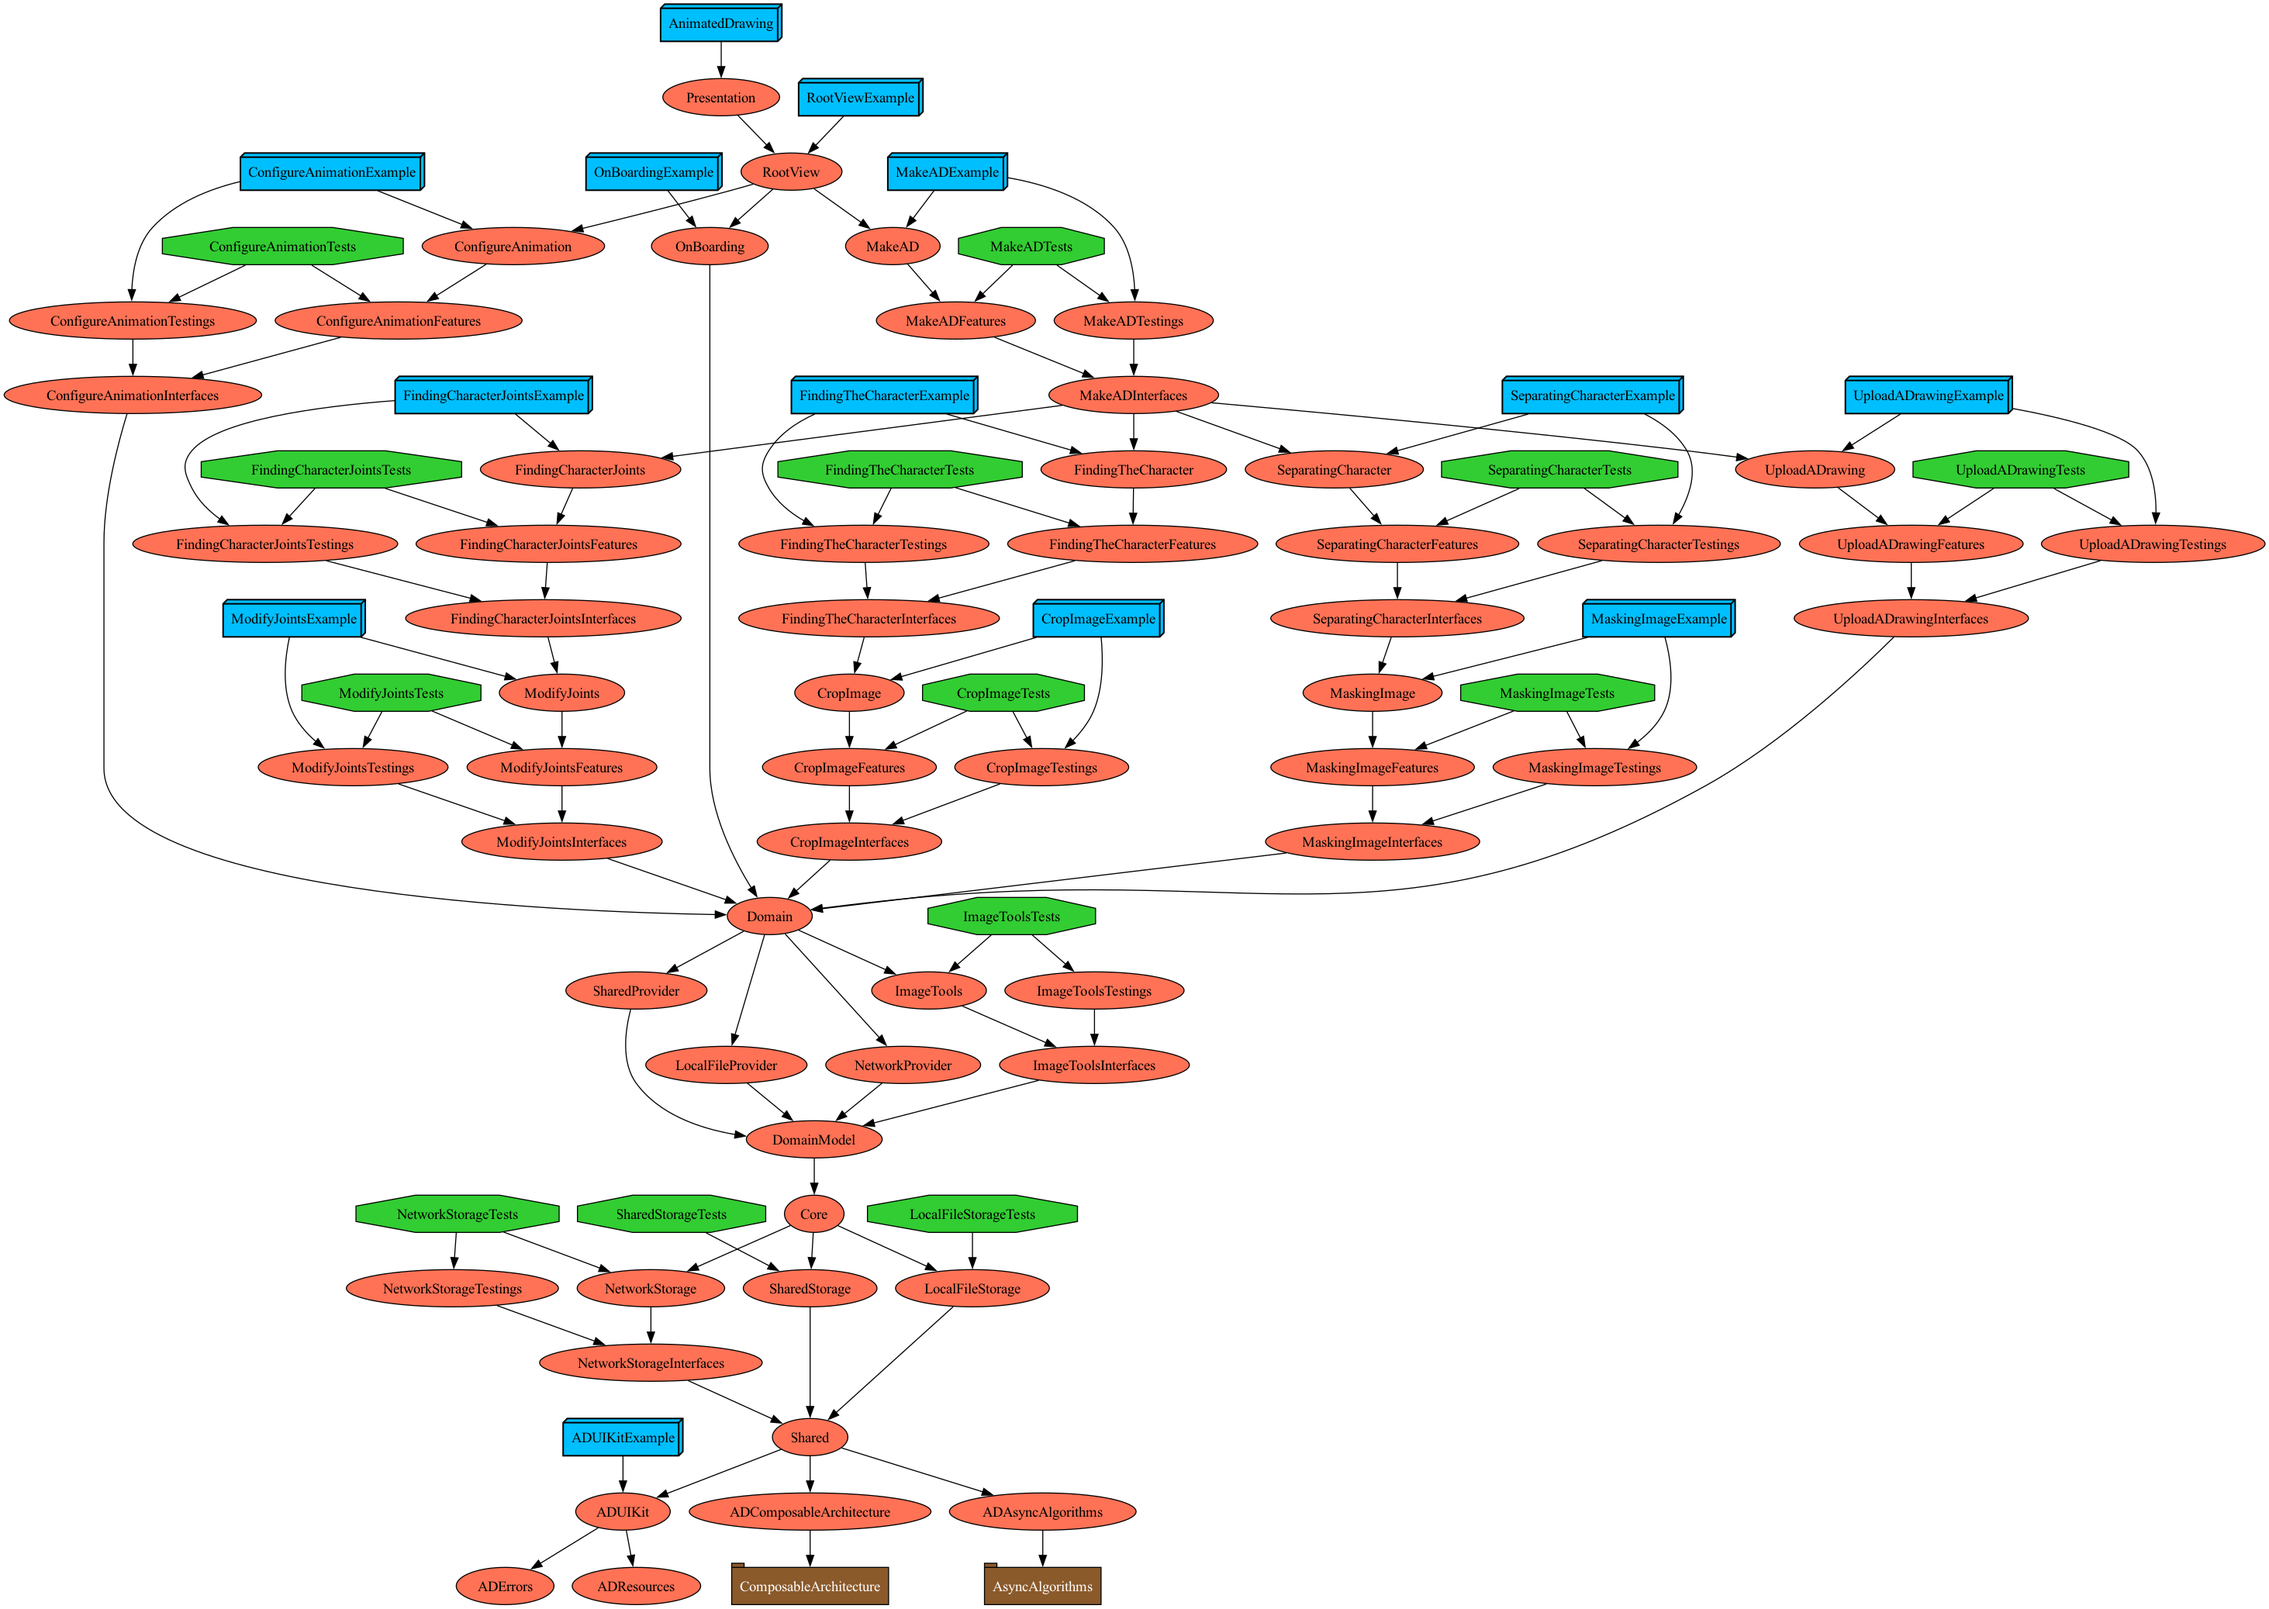
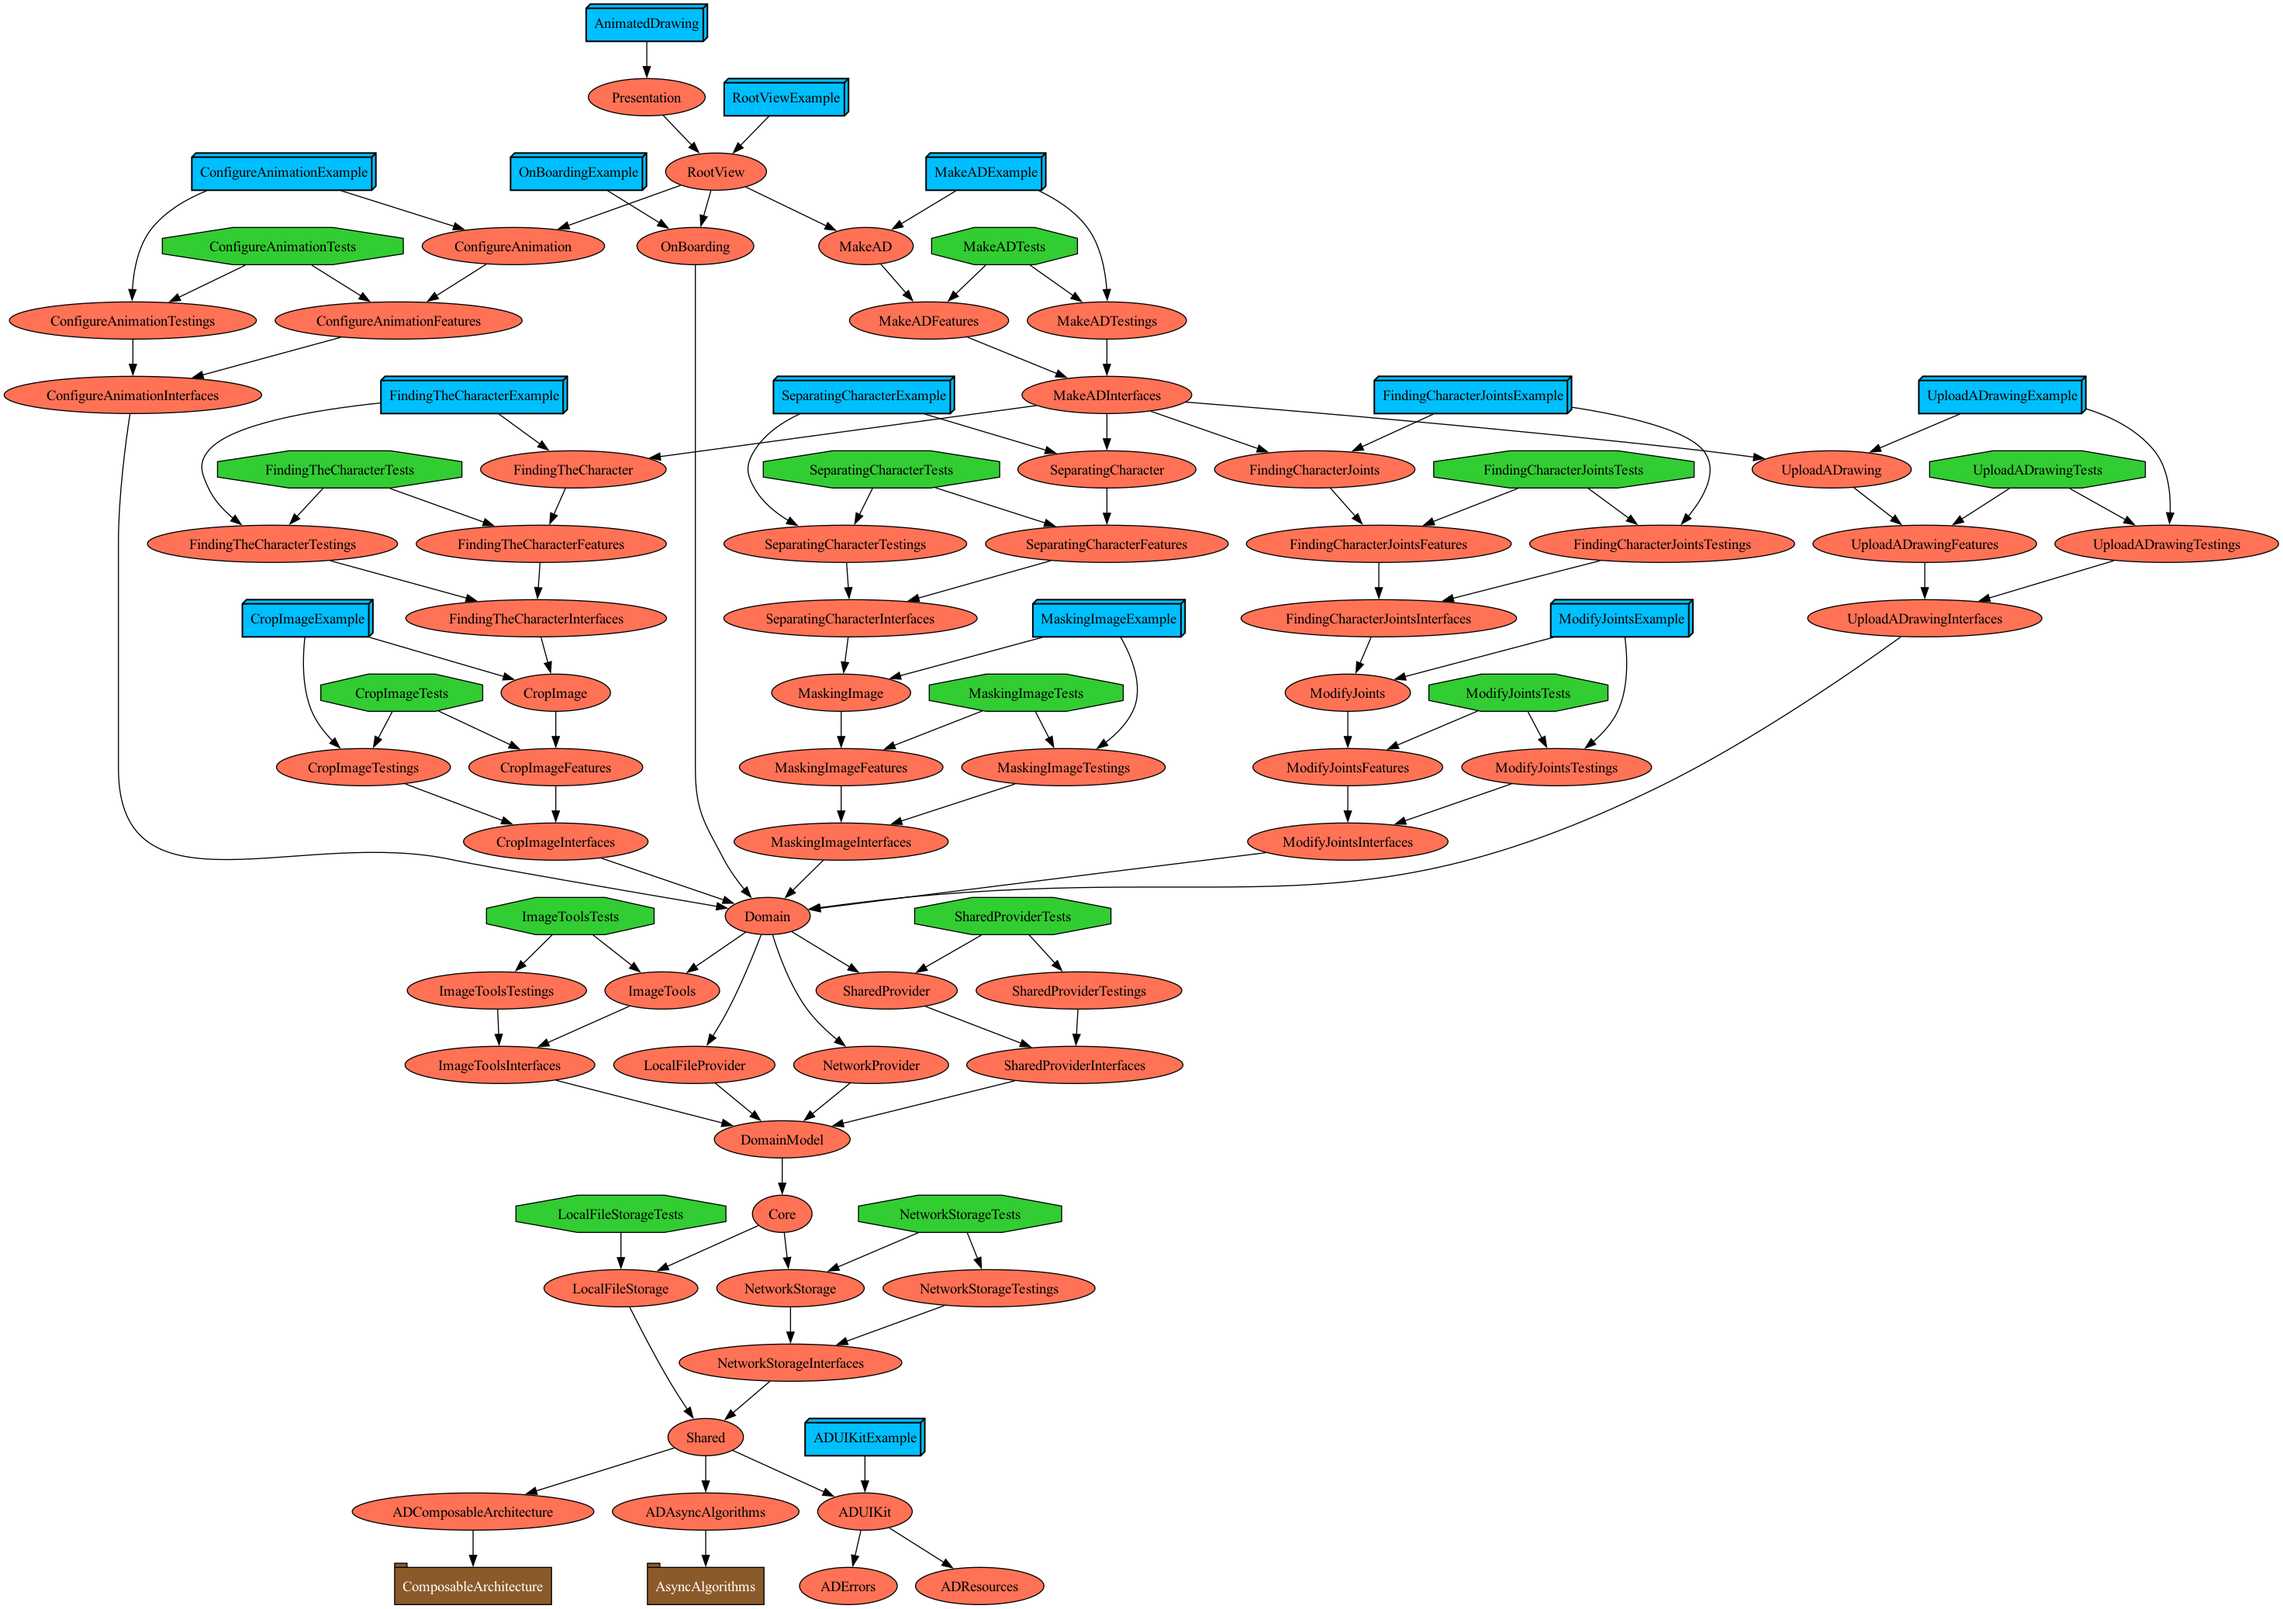
[Refactor] : SharedStorage 모듈 제거
Git : #61

Changed region(s): [[0.0622, 0.0, 0.933, 1.0], [0.0622, 0.0925, 0.1866, 0.1234], [0.0311, 0.1851, 0.0933, 0.2159]]

diff --git a/Projects/Domain/SharedProvider/Tests/CombineNotifierTests.swift b/Projects/Domain/SharedProvider/Tests/CombineNotifierTests.swift
@@ -1,0 +1,62 @@
+//
+//  CombineNotifierTests.swift
+//  SharedProviderTests
+//
+//  Created by chminii on 3/13/24.
+//  Copyright © 2024 chminipark. All rights reserved.
+//
+
+import XCTest
+@testable import SharedProvider
+
+final class CombineNotifierTests: XCTestCase {
+  func testValues() async {
+    let initialValue = 0
+    let noti = CombineNotifier(initialValue: initialValue)
+    let id = UUID()
+    let dupArray: [Int] = [1, 1, 1]
+    let numArray: [Int] = Array((1...10))
+    var resultArray: [Int] = []
+    let expectation = XCTestExpectation()
+    
+    Task {
+      try await Task.sleep(for: .seconds(2))
+      for num in dupArray + numArray {
+        await noti.set(num)
+      }
+    }
+    for await num in await noti.values(id: id) {
+      resultArray.append(num)
+      if num == 10 {
+        expectation.fulfill()
+        break
+      }
+    }
+    
+    await fulfillment(of: [expectation], timeout: 7)
+    XCTAssertEqual(resultArray, [initialValue] + numArray)
+    let cancellables = await noti.cancellables
+    XCTAssertNil(cancellables[id])
+  }
+  
+  func testSet() async {
+    let initialValue = "initialValue"
+    let noti = CombineNotifier(initialValue: initialValue)
+    
+    let test = "test"
+    await noti.set(test)
+    let result = await noti.get()
+    
+    XCTAssertNotEqual(result, initialValue)
+    XCTAssertEqual(result, test)
+  }
+  
+  func testGet() async {
+    let initialValue = "initialValue"
+    let noti = CombineNotifier(initialValue: initialValue)
+    
+    let result = await noti.get()
+    
+    XCTAssertEqual(result, initialValue)
+  }
+}

diff --git a/Projects/Core/NetworkStorage/Features/Feature/Storage/MakeAD/MakeADStorage.swift b/Projects/Core/NetworkStorage/Features/Feature/Storage/MakeAD/MakeADStorage.swift
@@ -13,31 +13,26 @@ public class MakeADStorage {
   
   public static let shared = MakeADStorage()
 
-  @Sendable
   public func uploadDrawing(request: UploadADrawingRequest) async throws -> UploadADrawingResponse {
     let response: UploadADrawingResponse = try await storage.request(.uploadDrawing(request))
     return response
   }
   
-  @Sendable
   public func findTheCharacter(request: FindTheCharacterRequest) async throws -> EmptyResponse {
     let response: EmptyResponse = try await storage.request(.findTheCharacter(request))
     return response
   }
   
-  @Sendable
   public func downloadMaskImage(request: DownloadMaskImageRequest) async throws -> Data {
     let response: Data = try await storage.download(.downloadMaskImage(request))
     return response
   }
   
-  @Sendable
   public func separateCharacter(request: SeparateCharacterRequest) async throws -> SeparateCharacterReponse {
     let response: SeparateCharacterReponse = try await storage.request(.separateCharacter(request))
     return response
   }
   
-  @Sendable
   public func findCharacterJoints(request: FindCharacterJointsRequest) async throws -> EmptyResponse {
     let response: EmptyResponse = try await storage.request(.findCharacterJoints(request))
     return response

diff --git a/Projects/Core/NetworkStorage/Features/Feature/Helper/Extension+TargetType.swift b/Projects/Core/NetworkStorage/Features/Feature/Helper/Extension+TargetType.swift
@@ -23,7 +23,7 @@ extension TargetType {
       httpBody = nil
     case .requestJSONEncodable(let jsonObject):
       guard let body = try? JSONEncoder().encode(jsonObject) else {
-        throw URLRequestError.requestJSONEncodable
+        throw TargetTypeError.requestJSONEncodable
       }
       httpBody = body
     case .uploadMultipart(let imageData):
@@ -51,14 +51,14 @@ extension TargetType {
   public func url() throws -> URL {
     let urlComponenets = try makeURLComponents()
     guard let url = urlComponenets.url else {
-      throw URLRequestError.makeURL
+      throw TargetTypeError.makeURL
     }
     return url
   }
   
   func makeURLComponents() throws -> URLComponents {
     let fullPath = "\(baseURL)\(path)"
-    guard var urlComponents = URLComponents(string: fullPath) else { throw URLRequestError.makeUrlComponent }
+    guard var urlComponents = URLComponents(string: fullPath) else { throw TargetTypeError.makeUrlComponent }
     
     var urlQueryItems = [URLQueryItem]()
     if let queryParameters = queryParameters {

diff --git a/Projects/Domain/SharedProvider/Features/SharedProvider/ADViewProvider.swift b/Projects/Domain/SharedProvider/Features/SharedProvider/ADViewProvider.swift
@@ -1,5 +1,5 @@
 //
-//  ADViewState.swift
+//  ADViewProvider.swift
 //  SharedProvider
 //
 //  Created by chminii on 2/6/24.
@@ -7,11 +7,10 @@
 //
 
 import Foundation
-import SharedStorage
 import DomainModel
 import ADComposableArchitecture
 
-public struct ADViewState {
+public struct ADViewProvider {
   public var currentView: CombineNotifier<ADViewCase>
   
   public init(currentView: ADViewCase = .OnBoarding) {
@@ -19,14 +18,14 @@ public struct ADViewState {
   }
 }
 
-extension ADViewState: DependencyKey {
-  public static var liveValue = ADViewState()
-  public static var testValue = ADViewState()
+extension ADViewProvider: DependencyKey {
+  public static var liveValue = ADViewProvider()
+  public static var testValue = ADViewProvider()
 }
 
 public extension DependencyValues {
-  var adViewState: ADViewState {
-    get { self[ADViewState.self] }
-    set { self[ADViewState.self] = newValue }
+  var adViewState: ADViewProvider {
+    get { self[ADViewProvider.self] }
+    set { self[ADViewProvider.self] = newValue }
   }
 }

diff --git a/Projects/Core/NetworkStorage/Tests/NetworkStorageTests.swift b/Projects/Core/NetworkStorage/Tests/NetworkStorageTests.swift
@@ -23,7 +23,7 @@ final class NetworkStorageTests: XCTestCase {
     do {
       let response: MockResponse = try await networkStorage.request(.test)
     } catch let error {
-      if let error = error as? NetworkError,
+      if let error = error as? NetworkStorageError,
          error == .jsonDecode 
       {
         return
@@ -45,7 +45,7 @@ final class NetworkStorageTests: XCTestCase {
     do {
       let response: MockResponse = try await networkStorage.request(.test)
     } catch let error {
-      if let error = error as? NetworkError,
+      if let error = error as? NetworkStorageError,
          error == .server
       {
         return
@@ -87,7 +87,7 @@ final class NetworkStorageTests: XCTestCase {
     do {
       let response: MockResponse = try await networkStorage.request(.test)
     } catch let error {
-      if let error = error as? NetworkError,
+      if let error = error as? NetworkStorageError,
          error == .emptyResponse
       {
         return

diff --git a/Projects/Domain/NetworkProvider/Features/Provider/MakeADProvider.swift b/Projects/Domain/NetworkProvider/Features/Provider/MakeADProvider.swift
@@ -10,8 +10,8 @@ import ADComposableArchitecture
 import NetworkStorage
 import UIKit
 import DomainModel
-import Shared
-import ADUIKitResources
+import ADUIKit
+import ADErrors
 
 public struct MakeADProvider {
   public var uploadDrawing: @Sendable (Data) async throws -> UploadDrawingResult
@@ -53,7 +53,7 @@ extension MakeADProvider: DependencyKey {
         )
       )
       guard let uiImage = UIImage(data: response) else {
-        throw DomainError.maskDataToImage
+        throw MakeADProviderError.maskDataToImage
       }
       return uiImage
     },
@@ -114,11 +114,4 @@ extension MakeADProvider: DependencyKey {
       logPrint()
     }
   )
-}
-
-public extension DependencyValues {
-  var makeADProvider: MakeADProvider {
-    get { self[MakeADProvider.self] }
-    set { self[MakeADProvider.self] = newValue }
-  }
 }

diff --git a/Projects/Core/NetworkStorage/Features/Feature/Storage/NetworkStorage.swift b/Projects/Core/NetworkStorage/Features/Feature/Storage/NetworkStorage.swift
@@ -22,11 +22,11 @@ class NetworkStorage<T: TargetType> {
     let (data, urlResponse) = try await session.data(for: urlRequest, delegate: nil)
     
     guard let decoded = try? JSONDecoder().decode(DefaultResponse<R>.self, from: data) else {
-      throw NetworkError.jsonDecode
+      throw NetworkStorageError.jsonDecode
     }
     
     guard decoded.isSuccess else {
-      throw NetworkError.server
+      throw NetworkStorageError.server
     }
     
     if Asserter<R>().generic(EmptyResponse()) {
@@ -34,7 +34,7 @@ class NetworkStorage<T: TargetType> {
     }
     
     guard let responseModel = decoded.response else {
-      throw NetworkError.emptyResponse
+      throw NetworkStorageError.emptyResponse
     }
     return responseModel
   }

diff --git a/Projects/Domain/SharedProvider/Features/SharedProvider/ADInfoProvider.swift b/Projects/Domain/SharedProvider/Features/SharedProvider/ADInfoProvider.swift
@@ -1,5 +1,5 @@
 //
-//  ADInfo.swift
+//  ADInfoProvider.swift
 //  SharedProvider
 //
 //  Created by chminii on 2/6/24.
@@ -7,10 +7,9 @@
 //
 
 import Foundation
-import SharedStorage
 import ADComposableArchitecture
 
-public struct ADInfo {
+public struct ADInfoProvider {
   public var id: CombineNotifier<String?>
   
   public init(id: String? = nil) {
@@ -18,7 +17,7 @@ public struct ADInfo {
   }
 }
 
-extension ADInfo: DependencyKey {
-  public static var liveValue = ADInfo()
-  public static var testValue = ADInfo(id: "test")
+extension ADInfoProvider: DependencyKey {
+  public static var liveValue = ADInfoProvider()
+  public static var testValue = ADInfoProvider(id: "test")
 }

diff --git a/Projects/Domain/SharedProvider/Features/CombineNotifier.swift b/Projects/Domain/SharedProvider/Features/CombineNotifier.swift
@@ -1,9 +1,9 @@
 //
 //  CombineNotifier.swift
-//  Presentation_Shared
+//  SharedProvider
 //
-//  Created by minii on 2023/09/25.
-//  Copyright © 2023 chminipark. All rights reserved.
+//  Created by chminii on 3/13/24.
+//  Copyright © 2024 chminipark. All rights reserved.
 //
 
 import Combine
@@ -28,10 +28,8 @@ public actor CombineNotifier<Output: Equatable> {
     subject.value
   }
   
-  public func values() -> AsyncStream<Output> {
+  public func values(id: UUID = UUID()) -> AsyncStream<Output> {
     AsyncStream { continuation in
-      let id = UUID()
-      
       cancellables[id] = subject
         .removeDuplicates()
         .sink { _ in

diff --git a/Projects/Domain/DomainModel/Features/Entity/CompressedInfo.swift b/Projects/Domain/DomainModel/Features/Entity/CompressedInfo.swift
@@ -7,7 +7,7 @@
 //
 
 import UIKit
-import ADUIKitResources
+import ADResources
 
 public struct CompressedInfo: Equatable {
   public let data: Data
@@ -23,7 +23,7 @@ public struct CompressedInfo: Equatable {
 
 public extension CompressedInfo {
   static func mock() -> Self {
-    let mockImage = ADUIKitResourcesAsset.SampleDrawing.step1Example2.image
+    let mockImage = ADResourcesAsset.SampleDrawing.step1Example2.image
     let mockData = mockImage.pngData() ?? Data()
     
     return Self(data: mockData, image: mockImage, original: mockImage)

diff --git a/Projects/Domain/DomainModel/Features/Entity/ImageCropper/CropRequest.swift b/Projects/Domain/DomainModel/Features/Entity/ImageCropper/CropRequest.swift
@@ -7,7 +7,7 @@
 //
 
 import UIKit
-import ADUIKitResources
+import ADResources
 
 public struct CropRequest {
   public let imageScale: CGFloat
@@ -24,7 +24,7 @@ public struct CropRequest {
 public extension CropRequest {
   static func mock() -> Self {
     let imageScale: CGFloat = 1
-    let example1: UIImage = ADUIKitResourcesAsset.SampleDrawing.step1Example1.image
+    let example1: UIImage = ADResourcesAsset.SampleDrawing.step1Example1.image
     let viewBoundingBox = CGRect(x: 10, y: 10, width: 100, height: 100)
     
     return Self(

diff --git a/Projects/Core/NetworkStorage/Features/Feature/Storage/ConfigureAnimation/ConfigureAnimationStorage.swift b/Projects/Core/NetworkStorage/Features/Feature/Storage/ConfigureAnimation/ConfigureAnimationStorage.swift
@@ -13,13 +13,11 @@ public class ConfigureAnimationStorage {
   
   public static let shared = ConfigureAnimationStorage()
   
-  @Sendable
   public func add(request: AddAnimationRequest) async throws -> EmptyResponse {
     let response: EmptyResponse = try await storage.request(.add(request))
     return response
   }
   
-  @Sendable
   public func download(request: DownloadAnimationRequest) async throws -> Data {
     let response: Data = try await storage.download(.download(request))
     return response
